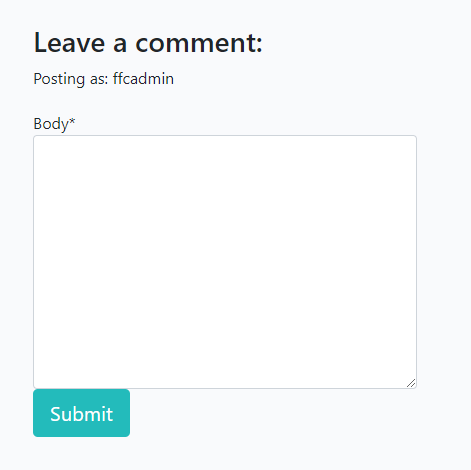
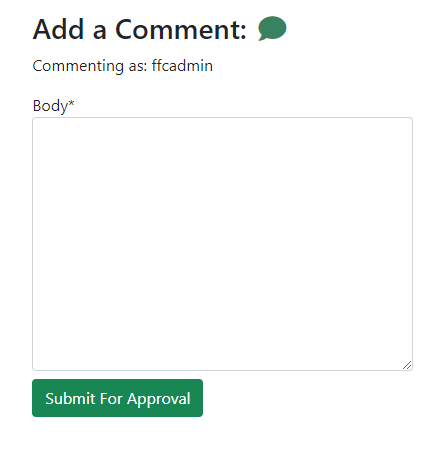
Update features screenshots and add pagination writeup

diff --git a/FEATURES.md b/FEATURES.md
@@ -64,7 +64,7 @@ This additional functionality allows a user to add comments to the site articles
 
 #### (iii) Add a Like to an article:
 
-This feature allows a user who is signed in to add a like an article by clicking on the like/heart icon under each article. When a user clicks the button it will increment the like count by one. When the article has been liked, the heart icon will turn solid red:
+This feature allows a user who is signed in to add a like an article by clicking on the like/thumbs-up icon under each article. When a user clicks the button it will increment the like count by one. When the article has been liked, the thumbs-up icon will turn solid green:
 
 ![Like](readme/features-likeunlike.png)
 
@@ -124,26 +124,26 @@ A user can vote in any of the available polls by navigating through the poll fea
 ![Vote in poll](readme/vote.png)
 
 #### (ii) Edit an article
-Additionally, the "Change Post" option will allow a Superuser or Administrator to edit the content of a pre-existing article. This is a useful feature for when Articles either contain erroneous information, or need to be augmented with additional late-breaking news relative to the Article's content. This feature can also be used to correct any typographical or grammatical errors that may have accidentally made their way into previously published articles.
+Additionally, the "Change Article" option will allow a Superuser or Administrator to edit the content of a pre-existing article. This is a useful feature for when Articles either contain erroneous information, or need to be augmented with additional late-breaking news relative to the Article's content. This feature can also be used to correct any typographical or grammatical errors that may have accidentally made their way into previously published articles.
 
 ![Edit Article](readme/features-editarticle.png)
 
 #### (iii) Approve a comment
 The application also contains features which help with the management of the comments posted on articles in the site. Before any comment can be publicly displayed, it must be edited (specifically - its status must be changed to "approved" by an administrator), to minimize the risk of offensive or illegal comments being posted. When an administrator or superuser wants to approve a comment, he or she can simply select the comment from the menu, check the appropriate selection box, and then select "approve comments" from the dropdown menu:
 
-![Approve Comment](readme/features-approvecomment.png)
+![Approve Comment](readme/testing/test3-comment-approve.png)
 
 #### (iv) Edit a Poll Question 
 
 This aspect of the "Edit" section of the applications CRUD featureset allows an administrator to edit the contents of a pre-existing poll question record. In order to complete this, navigate to the administration area location shown in the screenshot below (`Home/Poll/Questions/Question`), which will then allow the edit functionality to be applied to the question text and/or publication dates & times:
 
-![Edit Question](readme/edit-question.png)
+![Edit Question](readme/testing/test12-poll-edit.png)
 
 #### (v) Edit a Poll Answer Choice
 
 Similarly, this aspect of the "Edit" section of the applications CRUD featureset allows an administrator to edit the contents of a pre-existing poll question answer choice. In order to complete this, navigate to the administration area location shown in the screenshot below (`Home/Poll/Choices/Choice`), which will then allow the edit functionality to be applied to the Answer text and/or the question it is linked to:
 
-![Edit Answer](readme/edit-answer.png)
+![Edit Answer](readme/testing/test13-choice-edit.png)
 
 
 ### - Delete Records:
@@ -151,11 +151,11 @@ Similarly, this aspect of the "Edit" section of the applications CRUD featureset
 #### (i) Delete an article
 The "Delete an article feature" grants a user with the correct permissions the ability to remove previously published articles from the site's content. This feature ensures that the site content can be maintained & kept current, and would allow reacting to any unexpected or accidental misinformation or errors that may require an article to be deleted from the site. The superuser/admin must check the box to the left of the article they wish to delete, and then select the delete option from the drop-down menu & confirm.
 
-![Delete Article](readme/features-deletearticle.png)
+![Delete Article](readme/testing/test2-article-delete.png)
 
 #### (ii) Delete a Like from an article:
 
-This feature allows a user who is signed in to delete a like they may have previously added to an article in error by re-clicking on the like/heart icon under each article. When a user clicks the button to unlike the article, it will decrement the like count by one and delete the previously added like from the article. When the article has been unliked, the heart icon will revert back to hollow/red outline:
+This feature allows a user who is signed in to delete a like they may have previously added to an article in error by re-clicking on the like/thumbs-up icon under each article. When a user clicks the button to unlike the article, it will decrement the like count by one and delete the previously added like from the article. When the article has been unliked, the thumbs-up icon will revert back to hollow/green outline:
 
 ![Like](readme/features-likeunlike.png)
 
@@ -192,7 +192,7 @@ The Nav bar contains links to the main functionality sections of the site, and c
 ![Nav](readme/features-nav.png)
 
 ### - Footer
-The site footer contains "Constructed By" label crediting the site to (fictional) FFC Devs, as well as clickable links to various external Social Media sites where users can connect. The links will always open in a new tab, and the footer is fully resposive using media queries from large screens down to small mobile devices. It contains a combination of green backgrounds, with white text and borders to ensure high contrast ratios and for consistency with the site's design & color scheme.
+The site footer contains "Constructed By" label crediting the site to (fictional) FFC Devs, as well as clickable links to various external Social Media sites where users can connect. The links will always open in a new tab, and the footer is fully resposive using media queries from large screens down to small mobile devices. It contains a combination of green backgrounds, with white text and borders to ensure high contrast ratios and for consistency with the site's design & color scheme. All links will open in a new browser window to ensure the best possible User Experience
 
 ![Footer](readme/features-footer.png)
 
@@ -210,7 +210,12 @@ This feature considers aspects of defensive design principles to ensure that in 
 
 The default image is sourced from pexels, and is fully acknowledged in the credits section, whilst the code was originally adapted from the Code Institute blog walkthrough lesson, the image below shows how the article would look in the blog index page with the deafult/placeholder picture instead of an administrator-specified image accompanying the article:
 
-![Default article picture](readme/features-deafult-image.png)
+![Default article picture](readme/features-default-image.png)
+
+### - Pagination 
+To aid with creating a positive UX - I have also ensured adequate pagination functionality is present for organising the content on the articles page - currently the content is paginated by a factor of `6`, and as you can see from the screenshot below, when a `7th` article is added, the oldest article will be shifted to another page, with a pagination button appearing for the user to navigate the pages should they wish to do so. 
+
+![Default article picture](readme/features-pagination.png)
 
 ### - Login Notification Message
 
